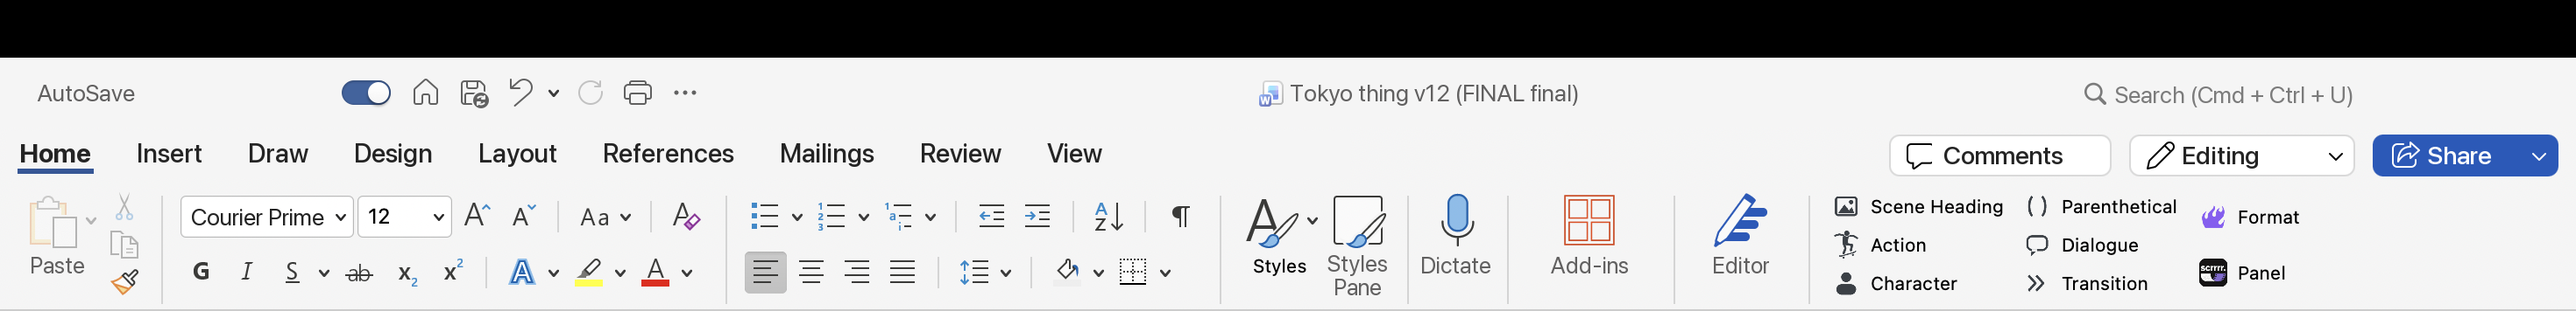
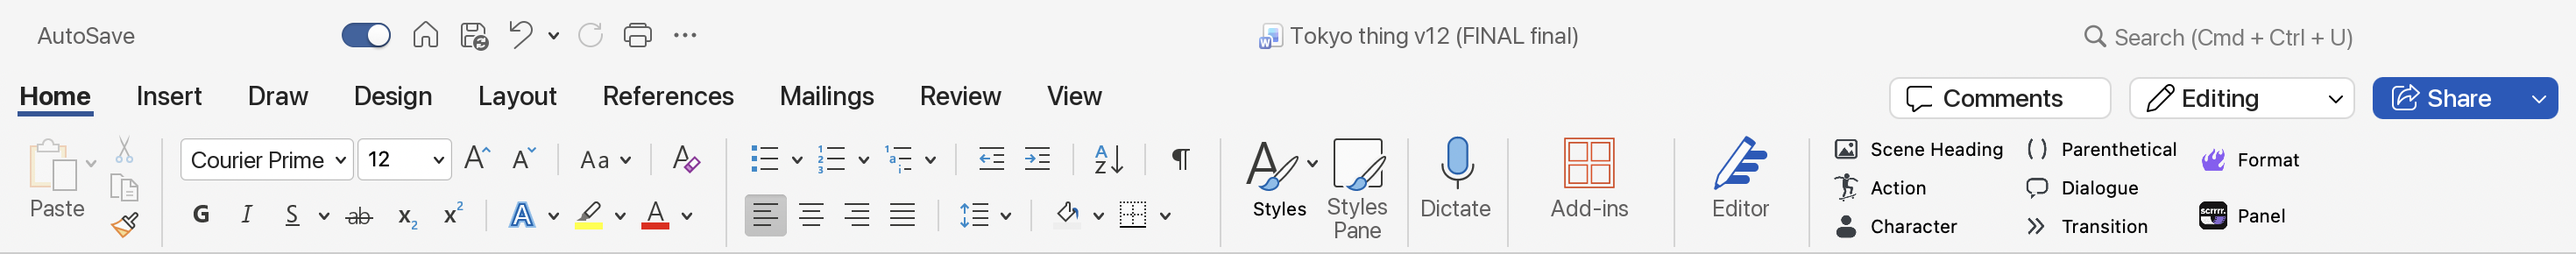
Accueil : le ruban Word sans la barre noire de macOS
Claude-Session: https://claude.ai/code/session_01P8W3LLeLe5QXHWTDcbhje4

diff --git a/index.html b/index.html
@@ -1396,7 +1396,7 @@
         <div class="hero-tryit">
           <div class="gdoc" aria-label="A document, the way Google Docs shows it">
             <img class="gdoc-chrome" id="sf-docs-chrome" src="/docs-chrome.png?v=9" alt="" width="1568" height="189">
-            <img class="gdoc-chrome" id="sf-word-chrome" src="/word-chrome.png?v=1" alt="" width="2940" height="356" hidden>
+            <img class="gdoc-chrome" id="sf-word-chrome" src="/word-chrome.png?v=2" alt="" width="2940" height="290" hidden>
             <div class="gdoc-canvas">
               <div class="tryit-side">
                 <div class="tryit-pill" id="tryit-pill"><span class="tryit-dot"></span><span><span class="tryit-cta">Try it. Type Charlotte's line.</span><span class="tryit-line">You're in <b>dialogue</b>.</span><span class="tryit-tip"></span></span></div>
